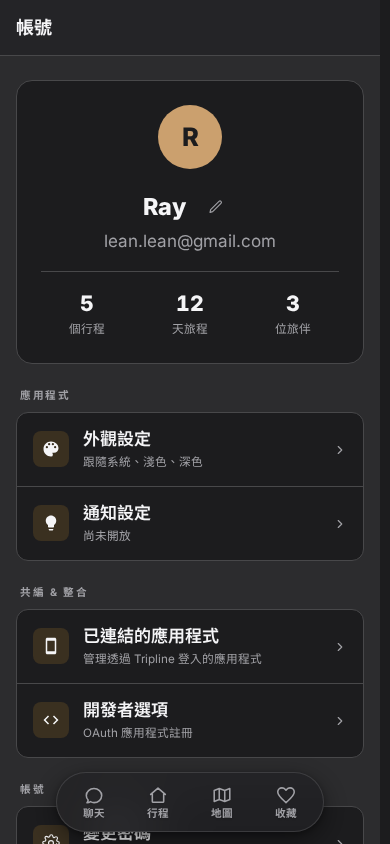
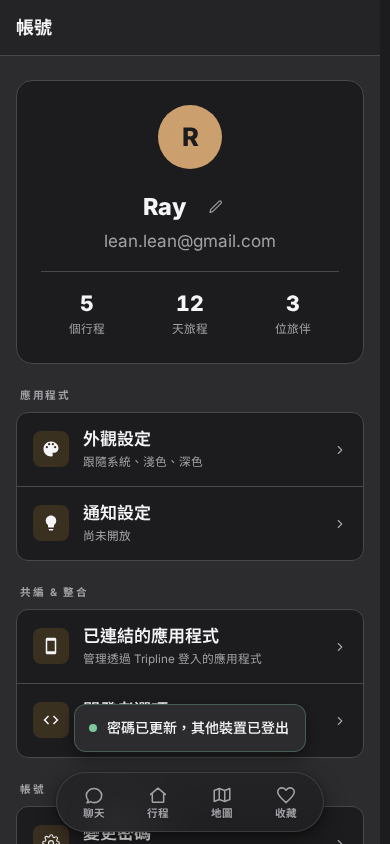
fix: 變更密碼成功後帳號頁掛 ToastContainer，成功回饋才看得到(#1589)
AccountPage 補上 ToastContainer（Toast 有單例守衛，與其他頁並存不會重複顯示）。
新增不 mock Toast 的整合測試；取證場景 change-password-success 改斷言看得到訊息並重拍，報告發現 26 標為已處理。

Changed region(s): [[0.1846, 0.8318, 0.7385, 0.8934]]

diff --git a/tests/unit/change-password-success-toast.test.tsx b/tests/unit/change-password-success-toast.test.tsx
@@ -1,0 +1,55 @@
+/**
+ * #1589：變更密碼成功後導回 /account，成功 Toast 必須真的看得到。
+ * 不 mock Toast、不 mock useNavigate——走真實的路由與 Toast 容器，
+ * 之前單元測試只驗 showToast 被呼叫，所以沒抓到「沒有容器可顯示」。
+ */
+import { describe, it, expect, vi, beforeEach } from 'vitest';
+import { render, screen, fireEvent, waitFor, cleanup } from '@testing-library/react';
+import { MemoryRouter, Routes, Route } from 'react-router-dom';
+
+const apiFetchMock = vi.fn<(path: string, init?: RequestInit) => Promise<unknown>>();
+vi.mock('../../src/lib/apiClient', () => ({
+  apiFetch: (path: string, init?: RequestInit) => apiFetchMock(path, init),
+  apiFetchRaw: () => Promise.resolve(new Response('{}')),
+}));
+const USER = { id: 'u1', email: 'ray@x.com', emailVerified: true, displayName: 'Ray', avatarUrl: null, createdAt: '' };
+vi.mock('../../src/hooks/useRequireAuth', () => ({ useRequireAuth: () => ({ user: USER, reload: () => {} }) }));
+vi.mock('../../src/hooks/useCurrentUser', () => ({ useCurrentUser: () => ({ user: USER, reload: () => {} }) }));
+vi.mock('../../src/hooks/useAccountPreview', () => ({
+  useAccountPreview: () => ({ status: 'ready', preview: { hasPassword: true }, reload: vi.fn(), patch: vi.fn() }),
+}));
+vi.mock('../../src/lib/auth', async (orig) => {
+  const m = await orig<typeof import('../../src/lib/auth')>();
+  return { ...m, isNewApiAuthEnabled: () => true, getNewApiAuth: () => ({ isAuthenticated: () => true, logout: vi.fn() }) };
+});
+vi.mock('../../src/components/shell/DesktopSidebarConnected', () => ({ default: () => null }));
+vi.mock('../../src/components/shell/GlobalBottomNav', () => ({ default: () => null }));
+
+import ChangePasswordPage from '../../src/pages/ChangePasswordPage';
+import AccountPage from '../../src/pages/AccountPage';
+import { resetToasts } from '../../src/components/shared/Toast';
+
+beforeEach(() => {
+  cleanup();
+  resetToasts();
+  apiFetchMock.mockReset();
+  apiFetchMock.mockImplementation(async (path) => (path === '/account/password' ? { ok: true } : {}));
+});
+
+describe('變更密碼成功回饋可見（#1589）', () => {
+  it('成功後導回 /account，畫面上只出現一則「密碼已更新，其他裝置已登出」', async () => {
+    render(
+      <MemoryRouter initialEntries={['/account/password']}>
+        <Routes>
+          <Route path="/account/password" element={<ChangePasswordPage />} />
+          <Route path="/account" element={<AccountPage />} />
+        </Routes>
+      </MemoryRouter>,
+    );
+    fireEvent.change(screen.getByTestId('change-password-current'), { target: { value: 'old-password-12345' } });
+    fireEvent.change(screen.getByTestId('change-password-new'), { target: { value: 'brand-new-pass-678' } });
+    fireEvent.click(screen.getByTestId('change-password-submit'));
+    await waitFor(() => expect(screen.getByTestId('account-page')).toBeTruthy());
+    expect(await screen.findAllByText('密碼已更新，其他裝置已登出')).toHaveLength(1);
+  });
+});

diff --git a/tests/e2e/hig-scene-fixtures.js b/tests/e2e/hig-scene-fixtures.js
@@ -277,7 +277,7 @@ const SCENES = [
   { name: 'change-password-rate-limited', ...CHANGE_PASSWORD, stub: stubChangePassword(pwError('CHANGE_PASSWORD_RATE_LIMITED', '嘗試次數過多，請稍後再試', 429, { 'Retry-After': '900' })), act: submitPasswordChange, proofText: '嘗試次數過多，請在 15 分鐘後再試', intended: '429 /api/account/password' },
   // 成功後導回帳號頁；頁面程式碼有呼叫 showToast，但 ChangePasswordPage 與 AccountPage 都沒有掛 ToastContainer，
   // 所以使用者看不到任何成功回饋（review 發現 26）。這裡把「看不到」釘成斷言（用一次性的 count，不用會自動重試的 toHaveCount——Toast 3 秒後自己消失，重試會讓斷言誤綠）；修好後請改成取證 Toast 本身。
-  { name: 'change-password-success', ...CHANGE_PASSWORD, stub: stubChangePassword(json({ ok: true })), act: async (page) => { await submitPasswordChange(page); await page.getByTestId('account-page').waitFor(); await page.waitForTimeout(500); }, proof: 'account-page', proofAbsent: { selector: '.tp-toast', why: '已知缺口 #26：成功 Toast 沒有容器可顯示；若現在看得到，請把本場景改成取證 Toast' } },
+  { name: 'change-password-success', ...CHANGE_PASSWORD, stub: stubChangePassword(json({ ok: true })), act: async (page) => { await submitPasswordChange(page); await page.getByTestId('account-page').waitFor(); await page.waitForTimeout(500); }, proof: 'account-page', proofText: '密碼已更新，其他裝置已登出' },
   { name: 'oauth-authorize', ...AUTHORIZE, stub: stubAuthorizeRequest(true), proof: 'authz-continue' },
   { name: 'oauth-authorize-scopes', ...AUTHORIZE, stub: stubAuthorizeRequest(true), act: (page) => page.locator('.tp-authz-disc summary').click(), proof: 'authz-scopes' },
   { name: 'oauth-authorize-login', ...AUTHORIZE, stub: stubAuthorizeRequest(false), proof: 'authz-login-form' },

diff --git a/src/pages/AccountPage.tsx b/src/pages/AccountPage.tsx
@@ -14,7 +14,7 @@ import { apiFetch } from '../lib/apiClient';
 import { isNewApiAuthEnabled } from '../lib/auth';
 import { logoutSession } from '../lib/logout';
 import { ApiError } from '../lib/errors';
-import { showToast } from '../components/shared/Toast';
+import ToastContainer, { showToast } from '../components/shared/Toast';
 import AppShell from '../components/shell/AppShell';
 import DesktopSidebarConnected from '../components/shell/DesktopSidebarConnected';
 import GlobalBottomNav from '../components/shell/GlobalBottomNav';
@@ -753,6 +753,7 @@ export default function AccountPage() {
   return (
     <>
       <style>{SCOPED_STYLES}</style>
+      <ToastContainer />
       <AppShell sidebar={sidebar} main={main} bottomNav={<GlobalBottomNav authed={auth.user !== null} />} />
     </>
   );

diff --git a/docs/qa/2026-11-04-hig-web-screenshot-review.md b/docs/qa/2026-11-04-hig-web-screenshot-review.md
@@ -38,7 +38,7 @@
 
 ### 不符合項的處理狀態
 
-已修並以測試守住：1～9（#1571）、12～22、24（#1587，其中 14、17 為 owner 決定）。待 owner 決定：23（缺三個交通方式圖示）。無法修（場景限制）：4。已另案：25（#1584 移除死碼）、26（#1589）。**其餘 10、11、27～54、70～80 尚未處理**，交 owner 決定是否開票；與既有 #1562（web 表單慣例一致性）同類的是 27（錯誤欄位的程式化關聯）與 28 內提到的密碼欄顯示切換，未逐條對照 #1562，開票前請 owner 比對避免重複。
+已修並以測試守住：1～9（#1571）、12～22、24（#1587，其中 14、17 為 owner 決定）。待 owner 決定：23（缺三個交通方式圖示）。無法修（場景限制）：4。已另案：25（#1584 移除死碼）。已處理：26（#1589）。**其餘 10、11、27～54、70～80 尚未處理**，交 owner 決定是否開票；與既有 #1562（web 表單慣例一致性）同類的是 27（錯誤欄位的程式化關聯）與 28 內提到的密碼欄顯示切換，未逐條對照 #1562，開票前請 owner 比對避免重複。
 
 ### 之後怎麼補
 
@@ -93,7 +93,7 @@
 | 23 | `popup-travel-pill-dialog` | E4 | 交通方式八個模式中，單軌、地鐵、火車、高鐵的圖示看起來相同，只能靠文字分辨（圖示小，判讀有限） | 看圖 | 有：HIG buttons（App 規範，web 屬類推） | `popup-travel-pill-dialog` [手機淺](2026-11-04-hig-web-screenshots/mobile/light/popup-travel-pill-dialog.png) [桌機淺](2026-11-04-hig-web-screenshots/desktop/light/popup-travel-pill-dialog.png) |
 | 24 | `popup-error-banner` | G6、DESIGN.md 文案規則 | 「登出此裝置失敗，請稍後再試。」說了發生什麼，但沒有重試動作，也沒說明該裝置是否仍登入（文案規則三問缺一）；橫幅與上方清單卡的間距只有幾 px，下方卻是 16px | 看圖 | 有：HIG feedback（App 規範，web 屬類推）；web 見 WCAG 3.3.1、4.1.3；專案規範 DESIGN.md，非 HIG | `popup-error-banner` [手機淺](2026-11-04-hig-web-screenshots/mobile/light/popup-error-banner.png) [桌機淺](2026-11-04-hig-web-screenshots/desktop/light/popup-error-banner.png) |
 | 25 | `TripPickerPopover`、`CollabSheet`、`InfoSheet` | — | 三個元件沒有任何使用者走得到的入口（死碼，見下「彈出層缺口」），所以無法取證；已另開 PR #1584 移除 | 程式碼（grep 全 `src/`） | 無一手來源（看圖、程式碼或專案規範判讀，沒有對應 HIG 條文） | 無畫面（元件不存在，無截圖） |
-| 26 | `change-password-success` | G6 | 變更成功後 `showToast('密碼已更新，其他裝置已登出')` 再導回 `/account`，但 `ChangePasswordPage` 與 `AccountPage` 都沒有掛 `ToastContainer`（全 `src/` 只有 11 個頁面掛），使用者看不到任何成功回饋；場景已用斷言釘住「看不到」，修好後會紅，請改成取證 Toast 本身。已開票 #1589 | 看圖加程式碼（grep）加場景斷言 | 有：HIG feedback（App 規範，web 屬類推）；web 見 WCAG 3.3.1、4.1.3 | `change-password-success` [手機淺](2026-11-04-hig-web-screenshots/mobile/light/change-password-success.png) [桌機淺](2026-11-04-hig-web-screenshots/desktop/light/change-password-success.png) |
+| 26 | `change-password-success` | G6 | 變更成功後 `showToast('密碼已更新，其他裝置已登出')` 再導回 `/account`，但 `ChangePasswordPage` 與 `AccountPage` 都沒有掛 `ToastContainer`（全 `src/` 只有 11 個頁面掛），使用者看不到任何成功回饋；**已處理（#1589）**：`AccountPage` 掛上 `ToastContainer`（Toast 有單例守衛，不會與其他頁重複顯示），場景斷言改成「看得到」成功訊息。已開票 #1589 | 看圖加程式碼（grep）加場景斷言 | 有：HIG feedback（App 規範，web 屬類推）；web 見 WCAG 3.3.1、4.1.3 | `change-password-success` [手機淺](2026-11-04-hig-web-screenshots/mobile/light/change-password-success.png) [桌機淺](2026-11-04-hig-web-screenshots/desktop/light/change-password-success.png) |
 | 27 | `change-password-current-invalid` | G6、F | 目前密碼錯誤時，紅字訊息出現在兩列群組下方，欄位本身沒有錯誤外觀（只有 `aria-invalid`，無紅框或圖示）；新密碼欄同時有值，使用者要靠訊息文字才知道錯在哪一欄 | 看圖加程式碼 | 有：HIG feedback（App 規範，web 屬類推）；web 見 WCAG 3.3.1、4.1.3；部分：HIG text-fields 有；passwords 專頁無一手來源 | `change-password-current-invalid` [手機淺](2026-11-04-hig-web-screenshots/mobile/light/change-password-current-invalid.png) [桌機淺](2026-11-04-hig-web-screenshots/desktop/light/change-password-current-invalid.png) |
 | 28 | `oauth-authorize-login` | A1 | 「忘記密碼？」是 `display:inline` 的 `<a>`，樣式裡的 `min-height: 44px` 對行內元素無效，實際點擊高度約一行字；觸控量測因規則「不量行內連結」而量不到（量測盲點，不是沒有問題） | 看圖加程式碼 | 有：HIG accessibility（App 數值）；web 套 44 是專案自訂標準 | `oauth-authorize-login` [手機淺](2026-11-04-hig-web-screenshots/mobile/light/oauth-authorize-login.png) [桌機淺](2026-11-04-hig-web-screenshots/desktop/light/oauth-authorize-login.png) |
 | 29 | `oauth-consent-unknown-scope` | H、F | 未知範圍（如 `admin:all`）和已知範圍一樣打綠勾圖示，只在文字尾端多一個「⚠ 未知範圍 — 請勿授權」；程式碼加了 `.unknown`／`.tp-consent-scope-warning` 類別，但全 repo 沒有對應樣式，所以警告沒有任何視覺強調，勾號反而暗示可以放行 | 看圖加程式碼（grep） | 有：HIG dark-mode（App 規範，web 屬類推）；部分：HIG text-fields 有；passwords 專頁無一手來源 | `oauth-consent-unknown-scope` [手機淺](2026-11-04-hig-web-screenshots/mobile/light/oauth-consent-unknown-scope.png) [桌機淺](2026-11-04-hig-web-screenshots/desktop/light/oauth-consent-unknown-scope.png) |
@@ -226,7 +226,7 @@
 | `change-password-too-short` | 符合 | 離開新密碼欄才顯示「新密碼至少 8 字元」，打字中不跳錯；焦點整列畫外框（目前密碼欄），淺深都清楚 |
 | `change-password-same` | 符合 | 同上，「新密碼不能和目前密碼相同」 |
 | `change-password-rate-limited` | 符合 | 「嘗試次數過多，請在 15 分鐘後再試」，429 的 Retry-After 900 秒換算正確；輸入保留 |
-| `change-password-success` | 疑慮 | 成功回到帳號頁，但沒有任何成功回饋，見發現 26 |
+| `change-password-success` | 符合 | 成功回到帳號頁，畫面上看得到「密碼已更新，其他裝置已登出」（發現 26 已處理，#1589） |
 | `oauth-authorize` | 未見明顯問題 | 以帳號晶片、單一「繼續」、可展開權限（預設收合）；沒有「拒絕」是設計決定（程式碼註解），改以「不是您本人要求的？直接關閉此頁」說明 |
 | `oauth-authorize-scopes` | 未見明顯問題 | 展開後六項權限含說明，文字折行正常 |
 | `oauth-authorize-login` | 疑慮 | 見發現 28；密碼欄沒有「顯示密碼」切換（與變更密碼頁不同，未對照 HIG） |
